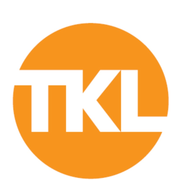
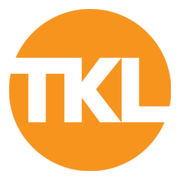
fix(pwa): el ícono de la app ya no sale corrido ni cortado en Android
- Íconos 192 y 512 con purpose "any" y versiones aparte con purpose
  "maskable": logo centrado al 72% del lienzo, dentro de la zona segura
  (círculo central del 80%), sobre fondo blanco.
- apple-touch-icon de 180 regenerado y centrado; sale del manifest (lo
  declara el layout).
- generate-pwa-icons ubica el círculo midiendo sus píxeles en lugar de
  recortar "el 75% superior", que lo dejaba corrido hacia abajo y cortado.
- --check verifica centrado y zona segura sobre los PNG generados, y
  --preview=DIR escribe una simulación de máscaras (círculo, squircle,
  cuadrado redondeado).

Changed region(s): [[0.0278, 0.0278, 0.9722, 1.0]]

diff --git a/scripts/generate-pwa-icons.ts b/scripts/generate-pwa-icons.ts
@@ -1,66 +1,241 @@
 /**
  * Generador de iconos PWA a partir del logo TKL.
  *
- * Lee public/branding/logo-source.jpeg, recorta solo el circulo naranja
- * (eliminando el texto "Farmacias" del cuarto inferior) y genera 3 PNGs
- * cuadrados en public/:
- *   - icon-192.png         (192x192)
- *   - icon-512.png         (512x512)
- *   - apple-touch-icon.png (180x180)
+ * Lee public/branding/logo-source.jpeg, ubica el circulo naranja (midiendo
+ * sus pixeles, sin coordenadas a ojo) y genera en public/:
  *
- * Estrategia de recorte:
- *  1. Tomar el 75% superior de la imagen (zona del circulo).
- *  2. Re-recortar a un cuadrado centrado horizontalmente en esa zona.
- *  3. Resize al tamaño final con fondo blanco asegurado.
+ *   purpose "any" — el circulo centrado ocupando casi todo el lienzo:
+ *     - icon-192.png           (192x192)
+ *     - icon-512.png           (512x512)
+ *     - apple-touch-icon.png   (180x180)
+ *
+ *   purpose "maskable" — Android recorta estos iconos con la forma que elija
+ *   el launcher (circulo, squircle, gota...). Solo se garantiza visible el
+ *   circulo central de diametro 80% del lienzo, asi que el logo va centrado y
+ *   achicado para entrar completo en esa zona segura, sobre fondo blanco:
+ *     - icon-maskable-192.png  (192x192)
+ *     - icon-maskable-512.png  (512x512)
+ *
+ * Por que hacia falta: el recorte anterior tomaba "el 75% superior" de la
+ * imagen y dejaba el circulo corrido hacia abajo y cortado; ademas el manifest
+ * no declaraba purpose, y el launcher usaba esa imagen sin zona segura.
  *
  * Uso:
- *   npm run generate:icons
- *   (o: npx tsx scripts/generate-pwa-icons.ts)
+ *   npm run generate:icons            genera los PNG
+ *   npm run generate:icons -- --check ademas verifica zona segura y centrado
+ *                                     y escribe una vista previa con mascaras
+ *                                     (circulo, squircle, cuadrado redondeado)
+ *                                     en la carpeta que indique --preview=DIR
  *
- * Idempotente: corre N veces sin efectos secundarios mas alla de re-escribir
- * los PNG de salida.
+ * Idempotente: corre N veces sin mas efecto que re-escribir los PNG.
  */
 import sharp from "sharp";
 import path from "path";
+import fs from "fs";
 
 const SOURCE     = path.resolve(process.cwd(), "public/branding/logo-source.jpeg");
 const OUTPUT_DIR = path.resolve(process.cwd(), "public");
 
-const SIZES: Array<{ name: string; size: number }> = [
-  { name: "icon-192.png",         size: 192 },
-  { name: "icon-512.png",         size: 512 },
-  { name: "apple-touch-icon.png", size: 180 },
+/** Diametro de la zona segura de un icono maskable, como fraccion del lienzo (spec W3C). */
+export const MASKABLE_SAFE_ZONE = 0.8;
+/** Diametro del logo en los maskable: dentro de la zona segura, con aire. */
+const MASKABLE_LOGO_RATIO = 0.72;
+/** Diametro del logo en los "any" y en apple-touch-icon. */
+const ANY_LOGO_RATIO = 0.9;
+
+type IconSpec = { name: string; size: number; logoRatio: number; maskable: boolean };
+
+const ICONS: IconSpec[] = [
+  { name: "icon-192.png",          size: 192, logoRatio: ANY_LOGO_RATIO,      maskable: false },
+  { name: "icon-512.png",          size: 512, logoRatio: ANY_LOGO_RATIO,      maskable: false },
+  { name: "apple-touch-icon.png",  size: 180, logoRatio: ANY_LOGO_RATIO,      maskable: false },
+  { name: "icon-maskable-192.png", size: 192, logoRatio: MASKABLE_LOGO_RATIO, maskable: true },
+  { name: "icon-maskable-512.png", size: 512, logoRatio: MASKABLE_LOGO_RATIO, maskable: true },
 ];
 
+/** Naranja del logo (tolerante al ruido del JPEG). No matchea el azul de "Farmacias". */
+function isOrange(r: number, g: number, b: number): boolean {
+  return r > 200 && g > 100 && g < 200 && b < 110;
+}
+
+type Box = { left: number; top: number; right: number; bottom: number };
+
+/** Caja que encierra los pixeles naranjas de una imagen. */
+async function orangeBox(img: sharp.Sharp): Promise<Box> {
+  const { data, info } = await img.clone().removeAlpha().raw().toBuffer({ resolveWithObject: true });
+  const box: Box = { left: info.width, top: info.height, right: -1, bottom: -1 };
+  for (let y = 0; y < info.height; y++) {
+    for (let x = 0; x < info.width; x++) {
+      const i = (y * info.width + x) * info.channels;
+      if (!isOrange(data[i], data[i + 1], data[i + 2])) continue;
+      if (x < box.left) box.left = x;
+      if (x > box.right) box.right = x;
+      if (y < box.top) box.top = y;
+      if (y > box.bottom) box.bottom = y;
+    }
+  }
+  if (box.right < 0) throw new Error("No se encontro el circulo naranja en la imagen");
+  return box;
+}
+
+/** El circulo del logo, recortado justo a su caja (cuadrada). */
+async function extractLogo(): Promise<Buffer> {
+  const src = sharp(SOURCE);
+  const box = await orangeBox(src);
+  const w = box.right - box.left + 1;
+  const h = box.bottom - box.top + 1;
+  if (Math.abs(w - h) > Math.max(w, h) * 0.03) {
+    throw new Error(`La caja naranja no es un circulo (${w}x${h}): revisar la imagen fuente`);
+  }
+  // Lado = el mayor de los dos, centrado en el centro de la caja.
+  const side = Math.max(w, h);
+  const cx = (box.left + box.right) / 2;
+  const cy = (box.top + box.bottom) / 2;
+  const left = Math.round(cx - side / 2);
+  const top  = Math.round(cy - side / 2);
+  console.log(`[icons] circulo: centro=(${cx}, ${cy}) diametro=${side}`);
+  return src.clone().extract({ left, top, width: side, height: side }).png().toBuffer();
+}
+
+async function renderIcon(logo: Buffer, spec: IconSpec): Promise<Buffer> {
+  const logoSize = Math.round(spec.size * spec.logoRatio);
+  const offset = Math.round((spec.size - logoSize) / 2);
+  const resized = await sharp(logo).resize(logoSize, logoSize, { fit: "fill" }).png().toBuffer();
+  return sharp({
+    create: { width: spec.size, height: spec.size, channels: 3, background: "#ffffff" },
+  })
+    .composite([{ input: resized, left: offset, top: offset }])
+    .png({ compressionLevel: 9 })
+    .toBuffer();
+}
+
+/* ── Verificacion ─────────────────────────────────────────────────────────── */
+
+/**
+ * Comprueba sobre el PNG ya generado que el circulo este centrado y, en los
+ * maskable, que ningun pixel naranja quede fuera de la zona segura.
+ */
+async function checkIcon(spec: IconSpec, png: Buffer): Promise<string[]> {
+  const errors: string[] = [];
+  const box = await orangeBox(sharp(png));
+  const c = (spec.size - 1) / 2;
+  const dx = (box.left + box.right) / 2 - c;
+  const dy = (box.top + box.bottom) / 2 - c;
+  const tol = Math.max(1, spec.size * 0.01);
+  if (Math.abs(dx) > tol || Math.abs(dy) > tol) {
+    errors.push(`descentrado (dx=${dx.toFixed(1)}, dy=${dy.toFixed(1)})`);
+  }
+  if (box.left <= 0 || box.top <= 0 || box.right >= spec.size - 1 || box.bottom >= spec.size - 1) {
+    errors.push("el circulo toca el borde (cortado)");
+  }
+  if (spec.maskable) {
+    const { data, info } = await sharp(png).removeAlpha().raw().toBuffer({ resolveWithObject: true });
+    const safeR = (spec.size * MASKABLE_SAFE_ZONE) / 2;
+    let outside = 0;
+    for (let y = 0; y < info.height; y++) {
+      for (let x = 0; x < info.width; x++) {
+        const i = (y * info.width + x) * info.channels;
+        if (!isOrange(data[i], data[i + 1], data[i + 2])) continue;
+        if (Math.hypot(x - c, y - c) > safeR) outside++;
+      }
+    }
+    if (outside > 0) errors.push(`${outside} px del logo fuera de la zona segura (80%)`);
+    // Las esquinas (lo que la mascara recorta) tienen que ser fondo blanco.
+    const corner = (x: number, y: number) => {
+      const i = (y * info.width + x) * info.channels;
+      return data[i] > 245 && data[i + 1] > 245 && data[i + 2] > 245;
+    };
+    const m = spec.size - 1;
+    if (!corner(0, 0) || !corner(m, 0) || !corner(0, m) || !corner(m, m)) {
+      errors.push("el fondo no es blanco");
+    }
+  }
+  return errors;
+}
+
+/** Mascaras de launcher como SVG (blanco = visible). */
+function maskSvg(shape: "circle" | "squircle" | "rounded", size: number): Buffer {
+  const h = size / 2;
+  let body: string;
+  if (shape === "circle") {
+    body = `<circle cx="${h}" cy="${h}" r="${h}" fill="#fff"/>`;
+  } else if (shape === "rounded") {
+    body = `<rect width="${size}" height="${size}" rx="${size * 0.22}" fill="#fff"/>`;
+  } else {
+    // Superelipse |x|^n + |y|^n = 1 con n=4 (squircle de launcher).
+    const pts: string[] = [];
+    for (let i = 0; i < 360; i++) {
+      const t = (i * Math.PI) / 180;
+      const cos = Math.cos(t), sin = Math.sin(t);
+      const x = h + h * Math.sign(cos) * Math.pow(Math.abs(cos), 0.5);
+      const y = h + h * Math.sign(sin) * Math.pow(Math.abs(sin), 0.5);
+      pts.push(`${x.toFixed(2)},${y.toFixed(2)}`);
+    }
+    body = `<polygon points="${pts.join(" ")}" fill="#fff"/>`;
+  }
+  return Buffer.from(`<svg xmlns="http://www.w3.org/2000/svg" width="${size}" height="${size}">${body}</svg>`);
+}
+
+/** Simula como se ve un icono recortado por cada mascara y arma una tira. */
+async function writeMaskPreview(dir: string, name: string, png: Buffer, size: number): Promise<{ file: string; lost: Record<string, number> }> {
+  const shapes = ["circle", "squircle", "rounded"] as const;
+  const gap = 24;
+  const tiles: sharp.OverlayOptions[] = [];
+  const lost: Record<string, number> = {};
+  const orangeCount = async (buf: Buffer) => {
+    const { data, info } = await sharp(buf).ensureAlpha().raw().toBuffer({ resolveWithObject: true });
+    let n = 0;
+    for (let i = 0; i < data.length; i += info.channels) {
+      if (data[i + 3] > 128 && isOrange(data[i], data[i + 1], data[i + 2])) n++;
+    }
+    return n;
+  };
+  const total = await orangeCount(png);
+  for (let k = 0; k < shapes.length; k++) {
+    const masked = await sharp(png)
+      .ensureAlpha()
+      .composite([{ input: maskSvg(shapes[k], size), blend: "dest-in" }])
+      .png()
+      .toBuffer();
+    lost[shapes[k]] = total - (await orangeCount(masked));
+    tiles.push({ input: masked, left: gap + k * (size + gap), top: gap });
+  }
+  const file = path.join(dir, name.replace(".png", "-mascaras.png"));
+  await sharp({
+    create: { width: gap + shapes.length * (size + gap), height: size + gap * 2, channels: 3, background: "#3a3f4b" },
+  }).composite(tiles).png().toFile(file);
+  return { file, lost };
+}
+
 async function main() {
+  const check = process.argv.includes("--check");
+  const previewArg = process.argv.find((a) => a.startsWith("--preview="));
+  const previewDir = previewArg ? path.resolve(previewArg.slice("--preview=".length)) : null;
+  if (previewDir) fs.mkdirSync(previewDir, { recursive: true });
+
   console.log(`[icons] source=${SOURCE}`);
-  const meta = await sharp(SOURCE).metadata();
-  if (!meta.width || !meta.height) {
-    throw new Error("No se pudo leer dimensiones de la imagen fuente");
-  }
-  console.log(`[icons] source dimensions: ${meta.width}x${meta.height}`);
+  const logo = await extractLogo();
+  let failed = 0;
 
-  // Recortar 75% superior de la imagen (zona del circulo, sin "Farmacias")
-  const cropHeight = Math.round(meta.height * 0.75);
-  // Convertir el rectangulo W × cropHeight en cuadrado centrado horizontalmente.
-  // Usamos cropHeight como lado: si W > cropHeight, recortamos a los costados;
-  // si W <= cropHeight, usamos W (caso raro para imagenes anchas, no esperado).
-  const cropSide = Math.min(meta.width, cropHeight);
-  const cropLeft = Math.round((meta.width  - cropSide) / 2);
-  const cropTop  = Math.round((cropHeight  - cropSide) / 2);
-  console.log(`[icons] crop region: left=${cropLeft} top=${cropTop} side=${cropSide}`);
+  for (const spec of ICONS) {
+    const png = await renderIcon(logo, spec);
+    fs.writeFileSync(path.join(OUTPUT_DIR, spec.name), png);
+    console.log(`[icons] ${spec.name} (${spec.size}x${spec.size}, ${spec.maskable ? "maskable" : "any"})`);
 
-  for (const { name, size } of SIZES) {
-    const outputPath = path.join(OUTPUT_DIR, name);
-    await sharp(SOURCE)
-      .extract({ left: cropLeft, top: cropTop, width: cropSide, height: cropSide })
-      .resize(size, size, { fit: "cover", background: { r: 255, g: 255, b: 255 } })
-      .flatten({ background: "#ffffff" })  // asegurar fondo blanco si hay alpha
-      .png({ compressionLevel: 9 })
-      .toFile(outputPath);
-    console.log(`[icons] generated ${name} (${size}x${size}) → ${outputPath}`);
+    if (!check) continue;
+    const errors = await checkIcon(spec, png);
+    if (previewDir) {
+      const { file, lost } = await writeMaskPreview(previewDir, spec.name, png, spec.size);
+      console.log(`         mascaras → ${file}  px de logo recortados: ${JSON.stringify(lost)}`);
+      if (spec.maskable && Object.values(lost).some((n) => n > 0)) {
+        errors.push("alguna mascara recorta el logo");
+      }
+    }
+    if (errors.length) { failed++; console.error(`  FAIL  ${spec.name}: ${errors.join("; ")}`); }
+    else console.log(`  PASS  ${spec.name}`);
   }
 
+  if (failed) { console.error(`[icons] ${failed} icono(s) con problemas`); process.exit(1); }
   console.log("[done] OK");
 }
 

diff --git a/docs/architecture/system-architecture.md b/docs/architecture/system-architecture.md
@@ -181,13 +181,20 @@ se cambia el script.
 
 ### 7. PWA
 
-`public/manifest.json` + íconos generados desde `public/logo-source.jpeg`
-con `scripts/generate-pwa-icons.ts` (usa `sharp`).
+`public/manifest.json` + íconos generados desde `public/branding/logo-source.jpeg`
+con `scripts/generate-pwa-icons.ts` (usa `sharp`). El script ubica el círculo del
+logo midiendo sus píxeles y lo centra.
 
 Iconos:
-- `icon-192.png`
-- `icon-512.png`
-- `apple-touch-icon.png`
+- `icon-192.png`, `icon-512.png` — purpose `any` (logo al 90% del lienzo).
+- `icon-maskable-192.png`, `icon-maskable-512.png` — purpose `maskable`: logo al
+  72% del lienzo, dentro de la zona segura (círculo central del 80%), fondo blanco.
+  Android recorta estos con la forma del launcher.
+- `apple-touch-icon.png` (180) — se declara en `src/app/layout.tsx`, no en el manifest.
+
+`npm run generate:icons -- --check --preview=DIR` regenera, verifica centrado y
+zona segura, y escribe en `DIR` una simulación de máscaras (círculo, squircle,
+cuadrado redondeado).
 
 ---
 
